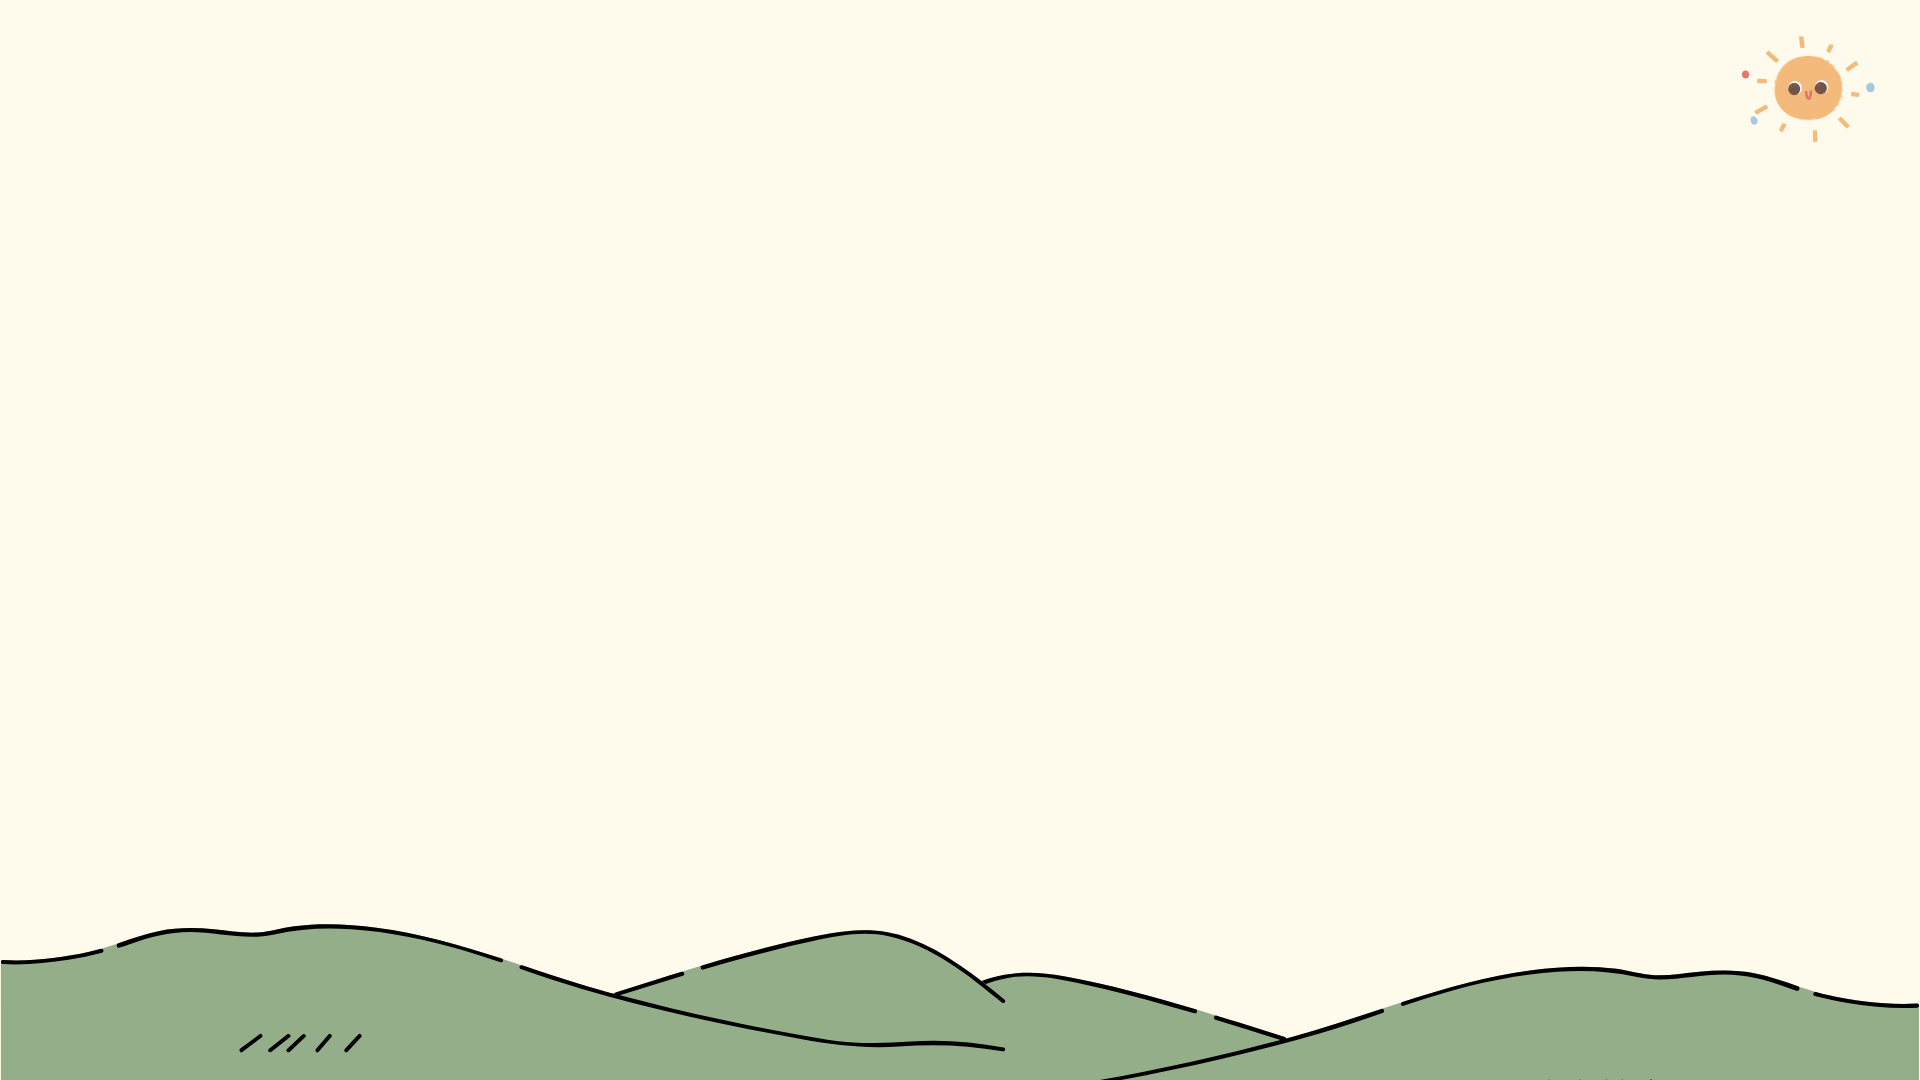
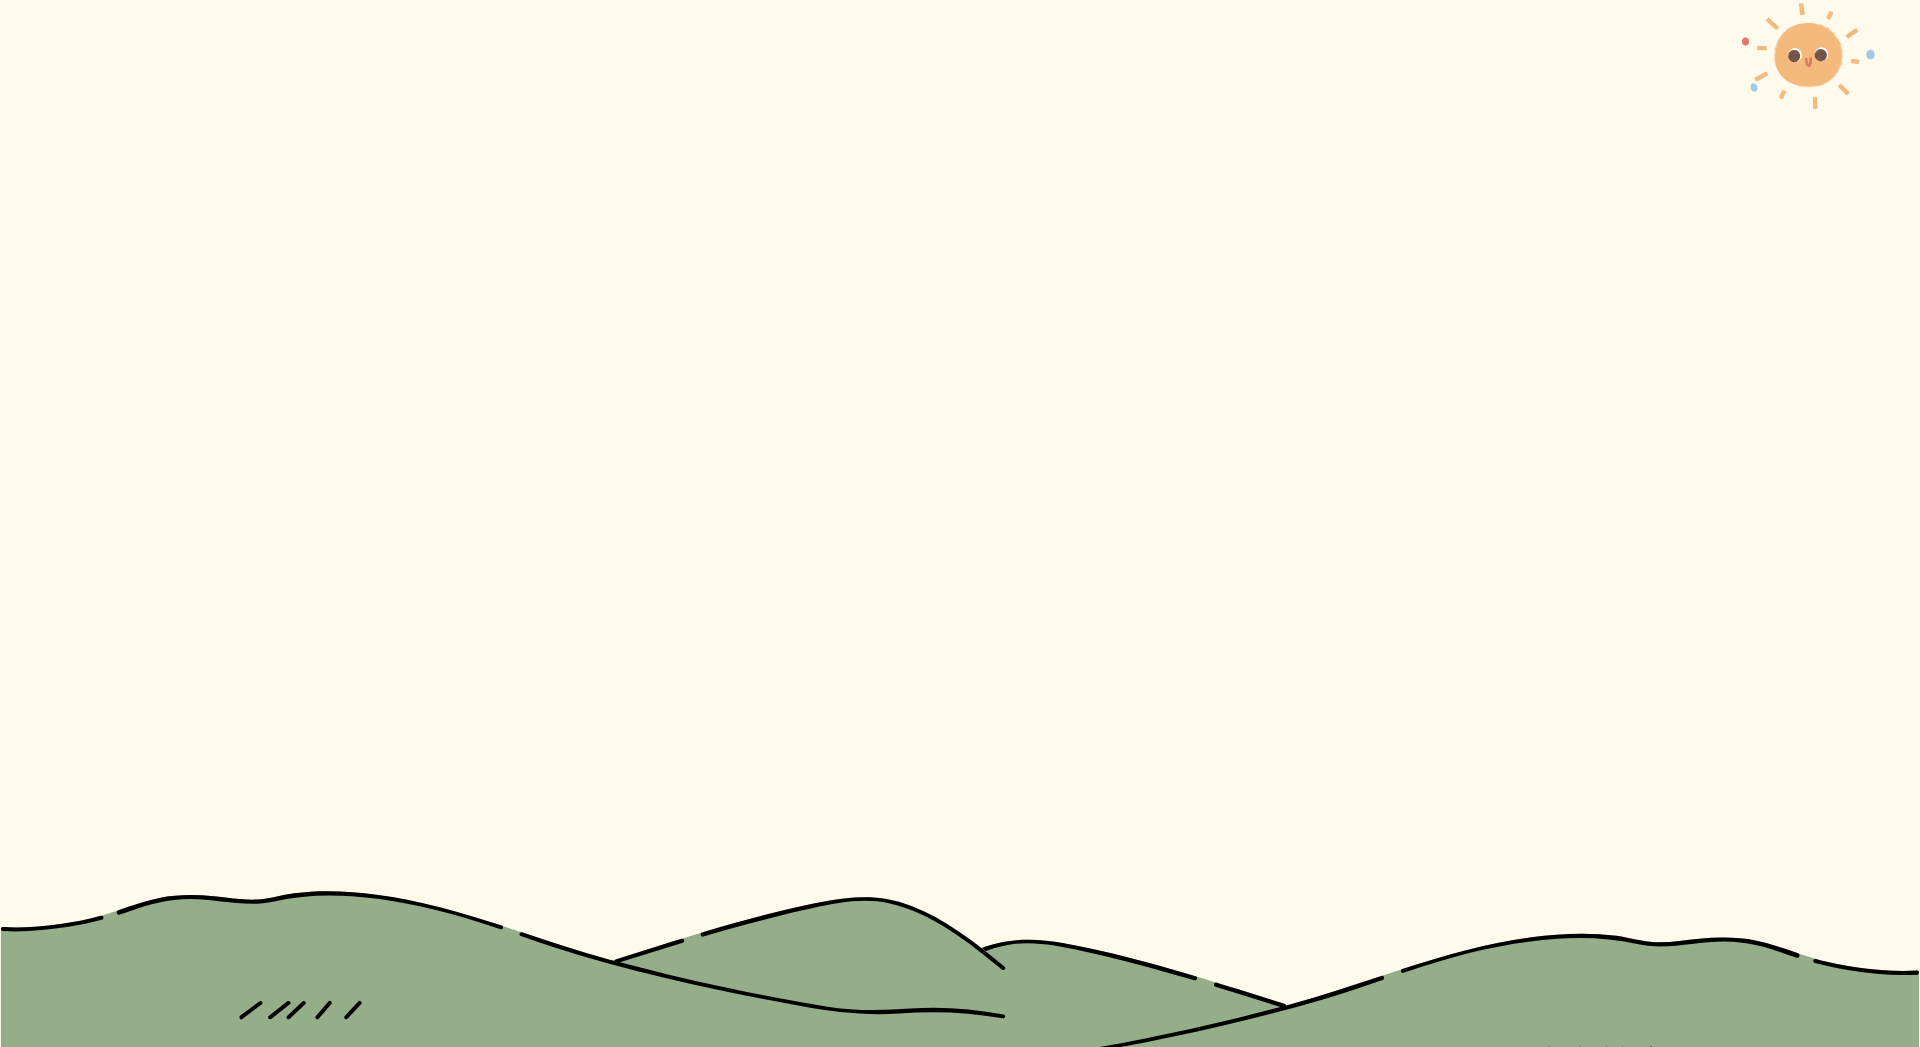
코드 수정

diff --git a/calenderstyle.css b/calenderstyle.css
@@ -38,10 +38,16 @@ td:hover {
 
 /*전체 사이트 배경*/
 body {
+  width: 100%;
+  height: 95vh;
   background-image: url('Calender_배경화면.png');
   /* 배경 이미지 경로 */
   background-size: cover;
   /* 화면에 꽉 차게 배경 이미지 크기 조절 */
   background-position: center;
   /* 배경 이미지 중앙 정렬 */
+  background-repeat: no-repeat;
+  /* 이미지 반복 없음 */
+  background-attachment: fixed;
+  /* 스크롤 시에도 이미지 고정 */
 }

diff --git a/calender.html b/calender.html
@@ -7,6 +7,7 @@
   <title>Calendar</title>
   <!-- 달력 스타일을 위한 css파일-->
   <link rel="stylesheet" type="text/css" href="calenderstyle.css">
+
 </head>
 
 <body>
@@ -42,7 +43,6 @@
 
   <!-- 달력을 제어하는 js 파일 -->
   <script src="calender.js"></script>
-  
 </body>
 
 </html>
